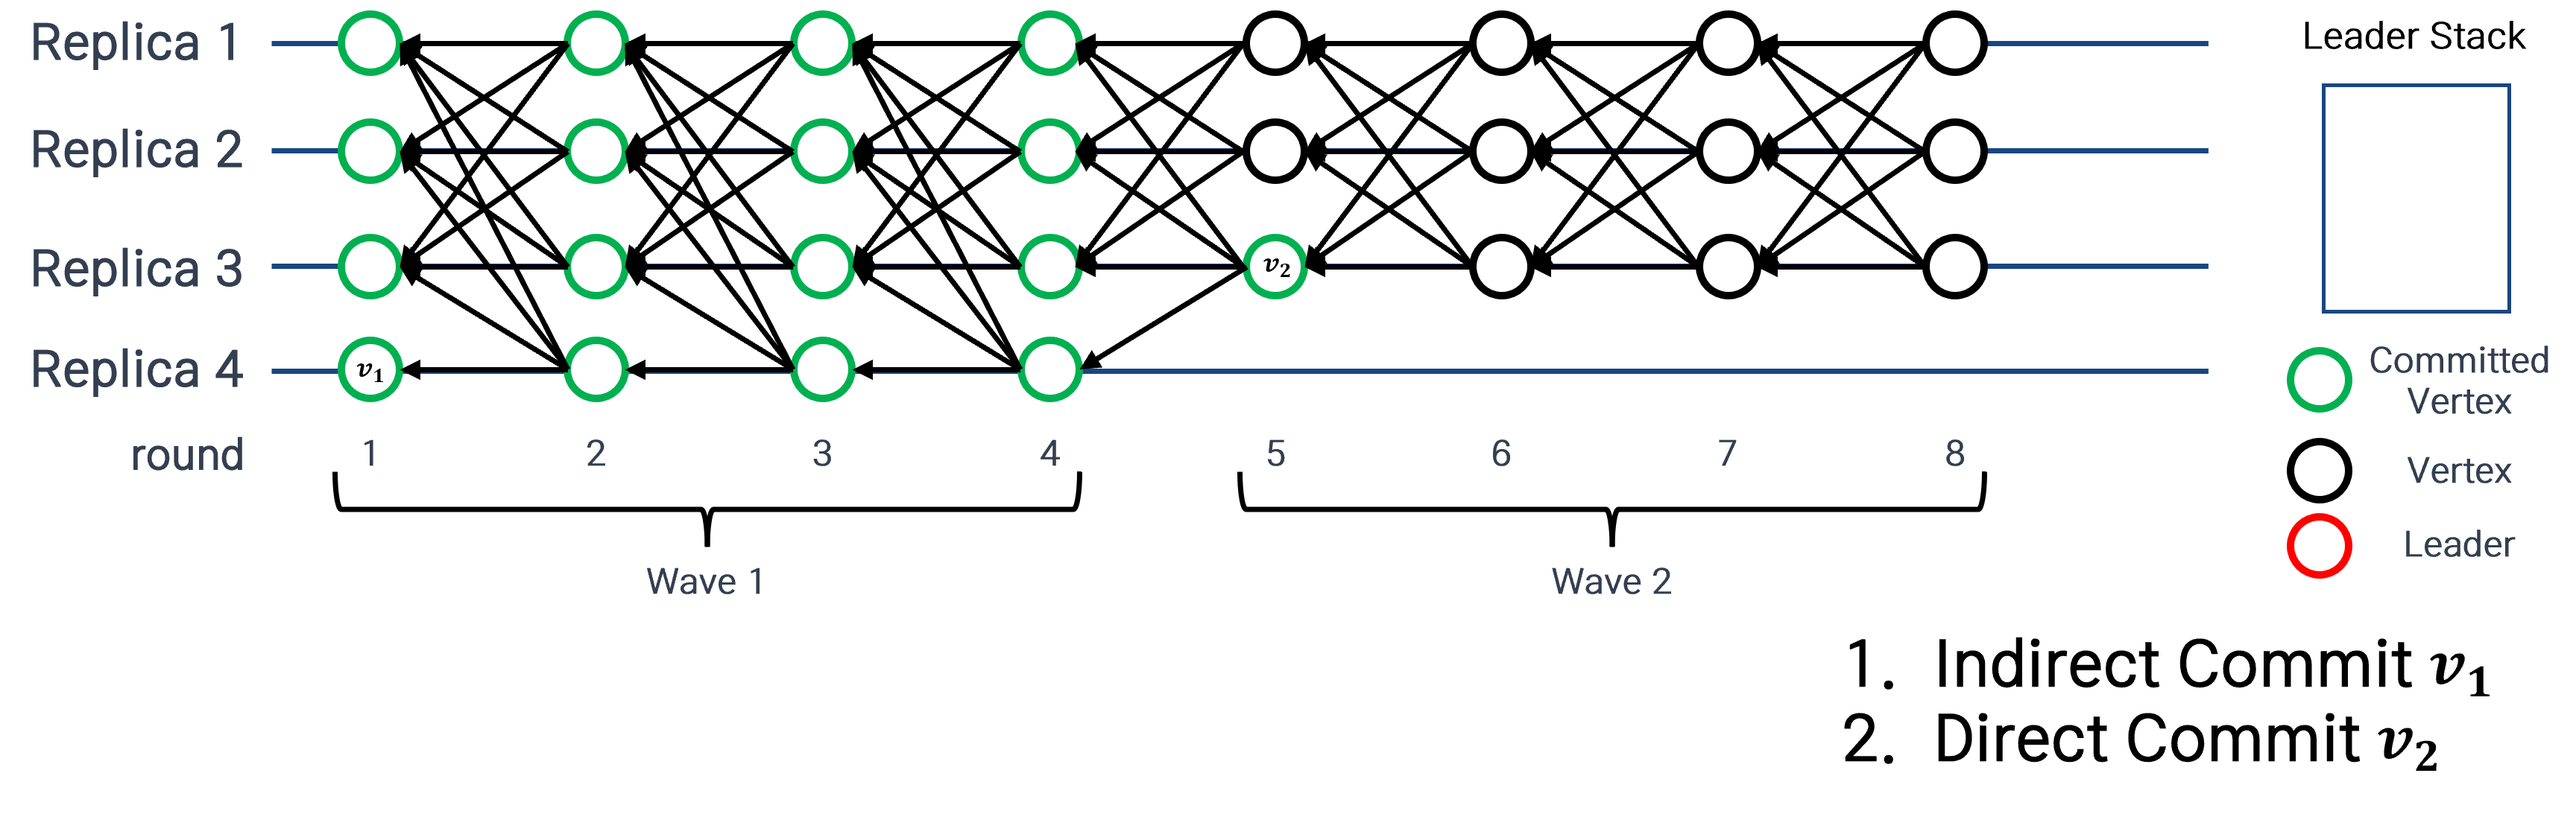
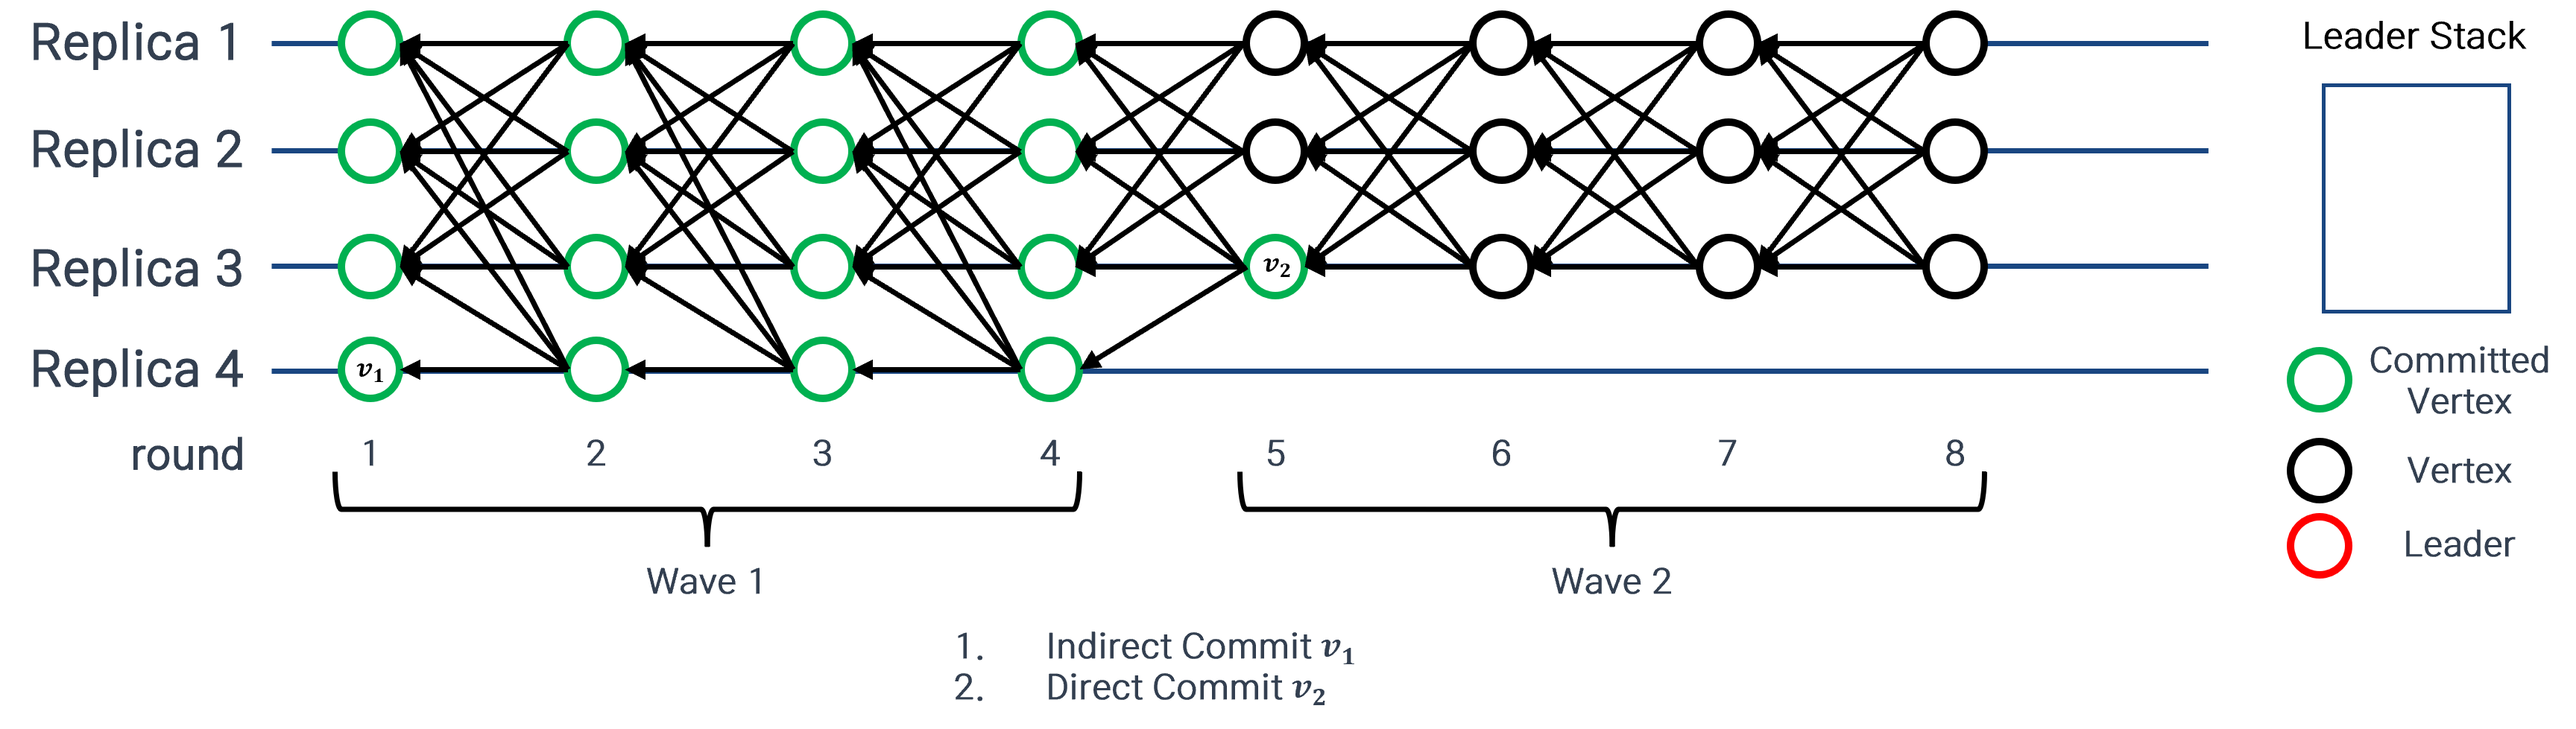
Enhance DAG-based BFT Consensus Algorithm post: add images and improve formatting

diff --git a/_sass/moonwalk.scss b/_sass/moonwalk.scss
@@ -117,6 +117,7 @@ p, strong, b, em, small, li, hr, table {
 figcaption {
     color: var(--text);
     text-align: center;
+    font-size: 0.8rem;
 }
 .highlight, pre code, blockquote {
   border-radius: 0.5em;
